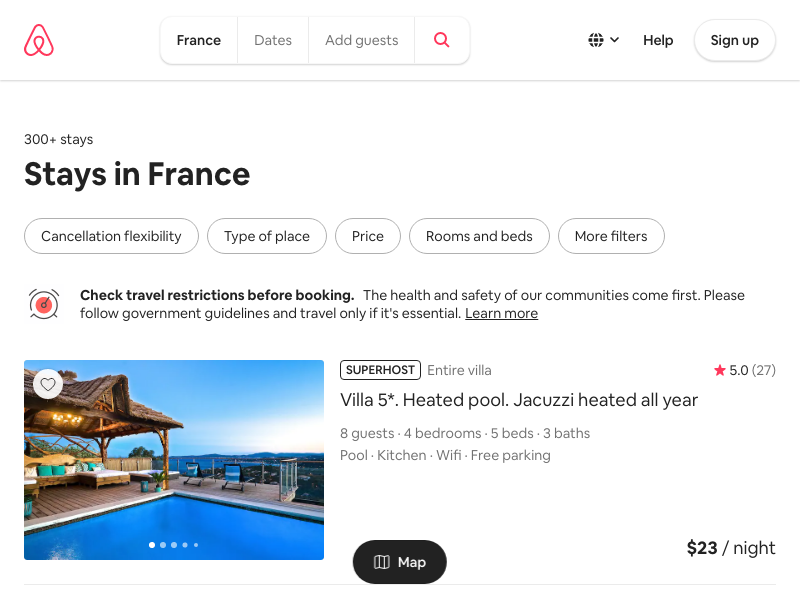
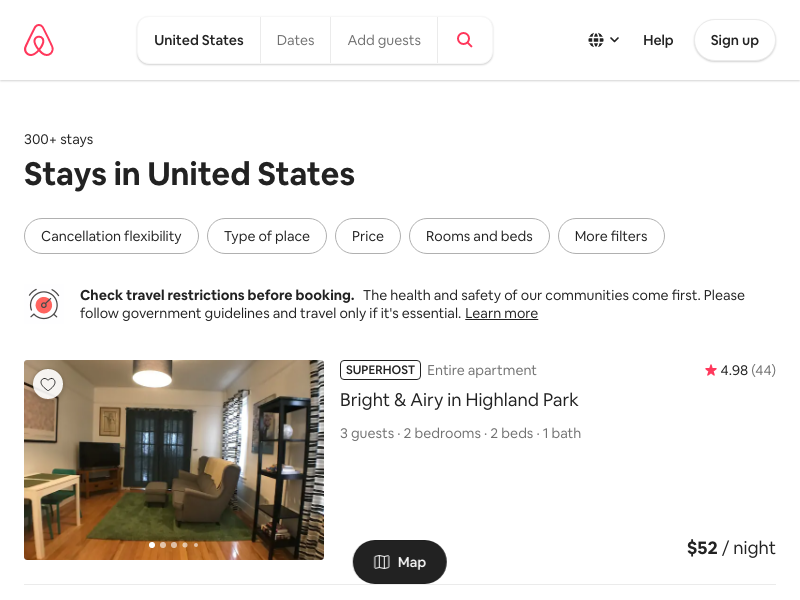
Slight tweak to render of results

diff --git a/meta/maybnbScraper.js b/meta/maybnbScraper.js
@@ -1,23 +1,25 @@
 const puppeteer = require('puppeteer');
-    function run () {
+
+
+    function webScraper () {
         return new Promise(async (resolve, reject) =>{
             try {
                 const browser = await puppeteer.launch();
                 const page = await browser.newPage();
                 var args = process.argv[2]
-                await page.goto(`https://www.airbnb.com/s/france/homes?tab_id=all_tab&refinement_paths%5B%5D=%2Fhomes&source=structured_search_input_header&search_type=search_query`);
+                await page.goto(`https://www.airbnb.com/s/USA/homes?tab_id=all_tab&refinement_paths%5B%5D=%2Fhomes&source=structured_search_input_header&search_type=search_query`);
                 await page.screenshot({path: 'sample.png'})
                 
                 let urls = await page.evaluate(() => {
                     let results = [];
                     let items = document.querySelectorAll('div._ttw0d');
+                    results.push({total_rooms: items.length})
                     items.forEach((item) => {
                         let link = item.querySelector('a._15tommw').href
                         let photo = item.querySelector('img._9ofhsl').src
                         // let price = item.querySelector('span.pdpPrice').innerText
                         // let discount = item.querySelector('div.listingDiscnt').innerText
                         results.push({
-                            total_rooms: items.length,
                             room_link:  link,
                             room_photo: photo,
 
@@ -36,4 +38,5 @@ const puppeteer = require('puppeteer');
             }
         })
     }
-run().then(console.log).catch(console.error);
+webScraper().then(console.log).catch(console.error);
+module.exports = webScraper

diff --git a/index.js b/index.js
@@ -1,11 +1,12 @@
-const data = require('./data')
+const data = require('./meta/data')
 const { pageURL  } = data;
 
-const webScraping = require('./maybnbScraper');
-const compareAndSaveResults = require('./resultAnalysis')
+const webScraping = require('./meta/maybnbScraper');
+const compareAndSaveResults = require('./meta/resultAnalysis')
 
 webScraping(pageURL)
 .then(dataObj => {
     compareAndSaveResults(dataObj);
+    console.log(dataObj)
 })
 .catch(err=>console.log(err))

diff --git a/meta/Rooms.js b/meta/Rooms.js
@@ -6,12 +6,10 @@ const roomSchema = new Schema({
         type: Number
     },
     room_link: {
-        type: [String],
-        required: true,
+        type: [String ]
     },
     room_photo: {
-        type: [String],
-        required: true
+        type: [String]
     }
 });
 
